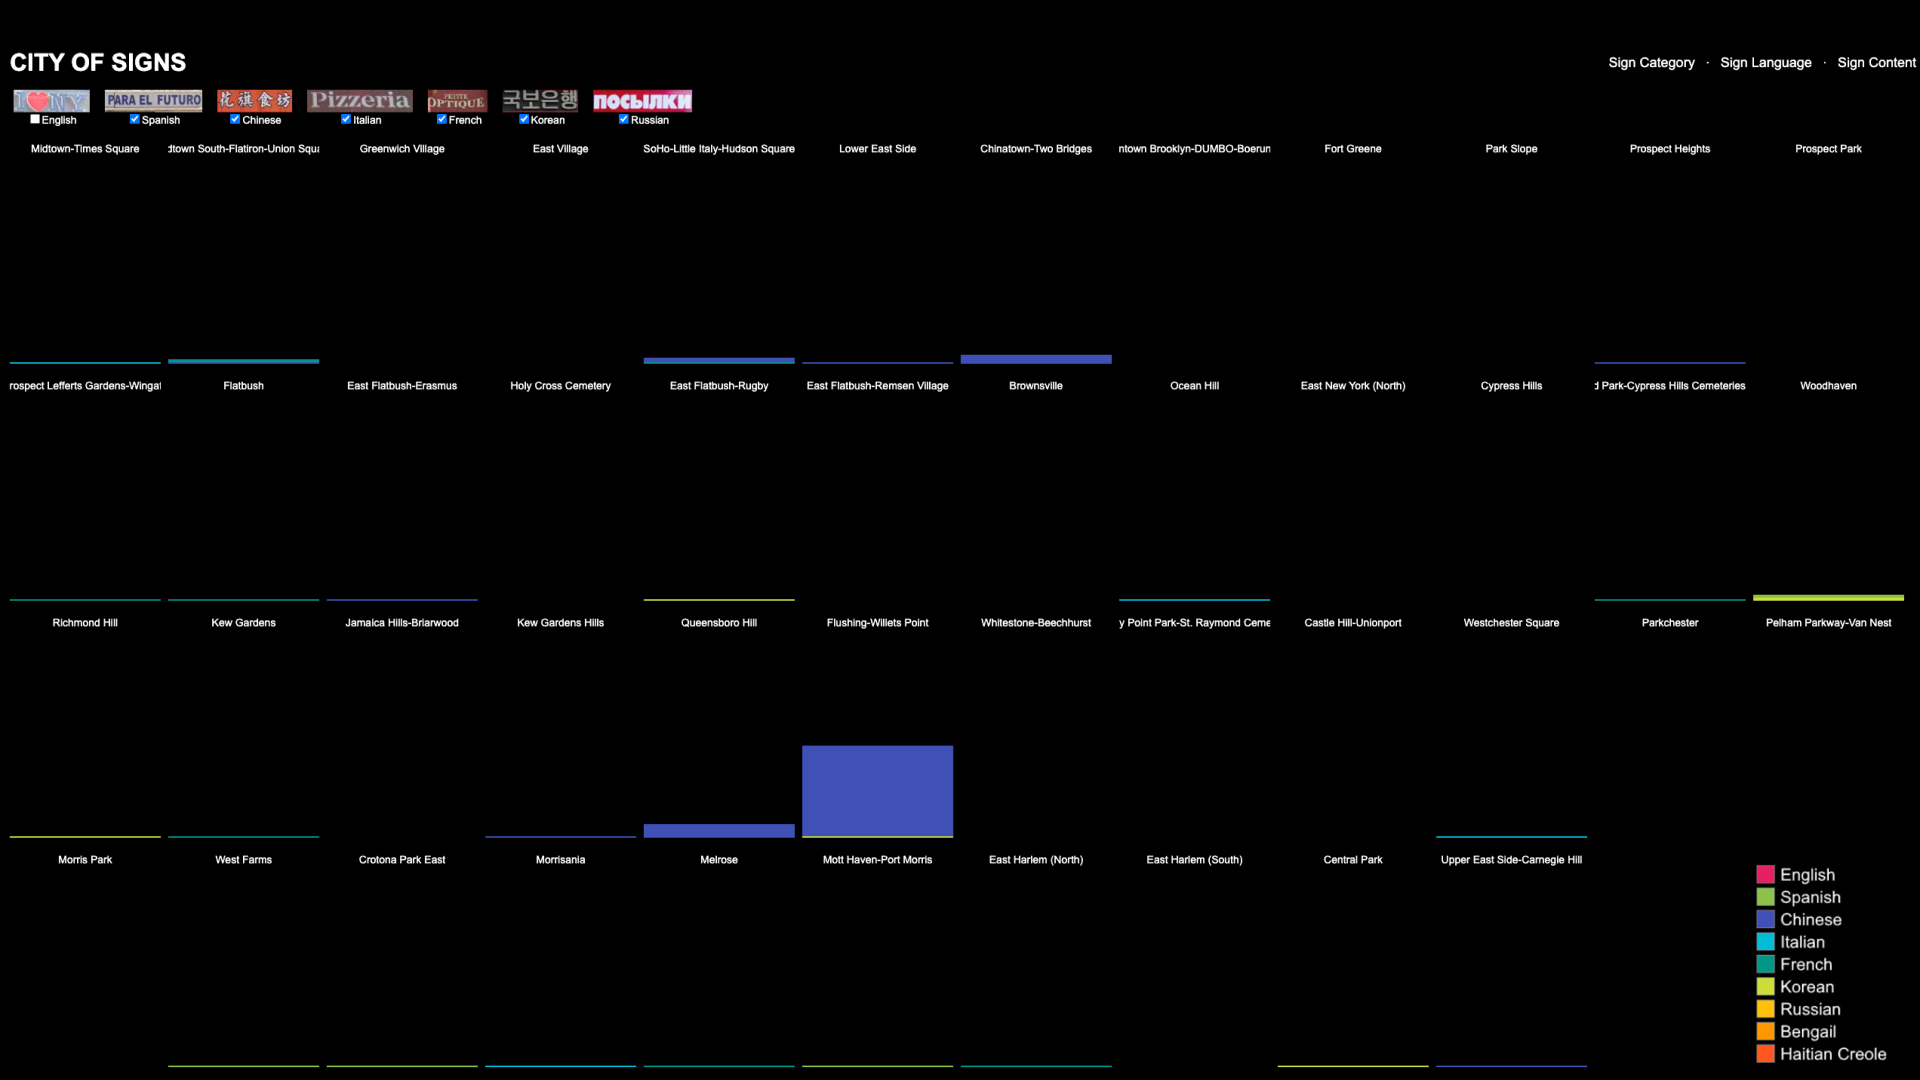
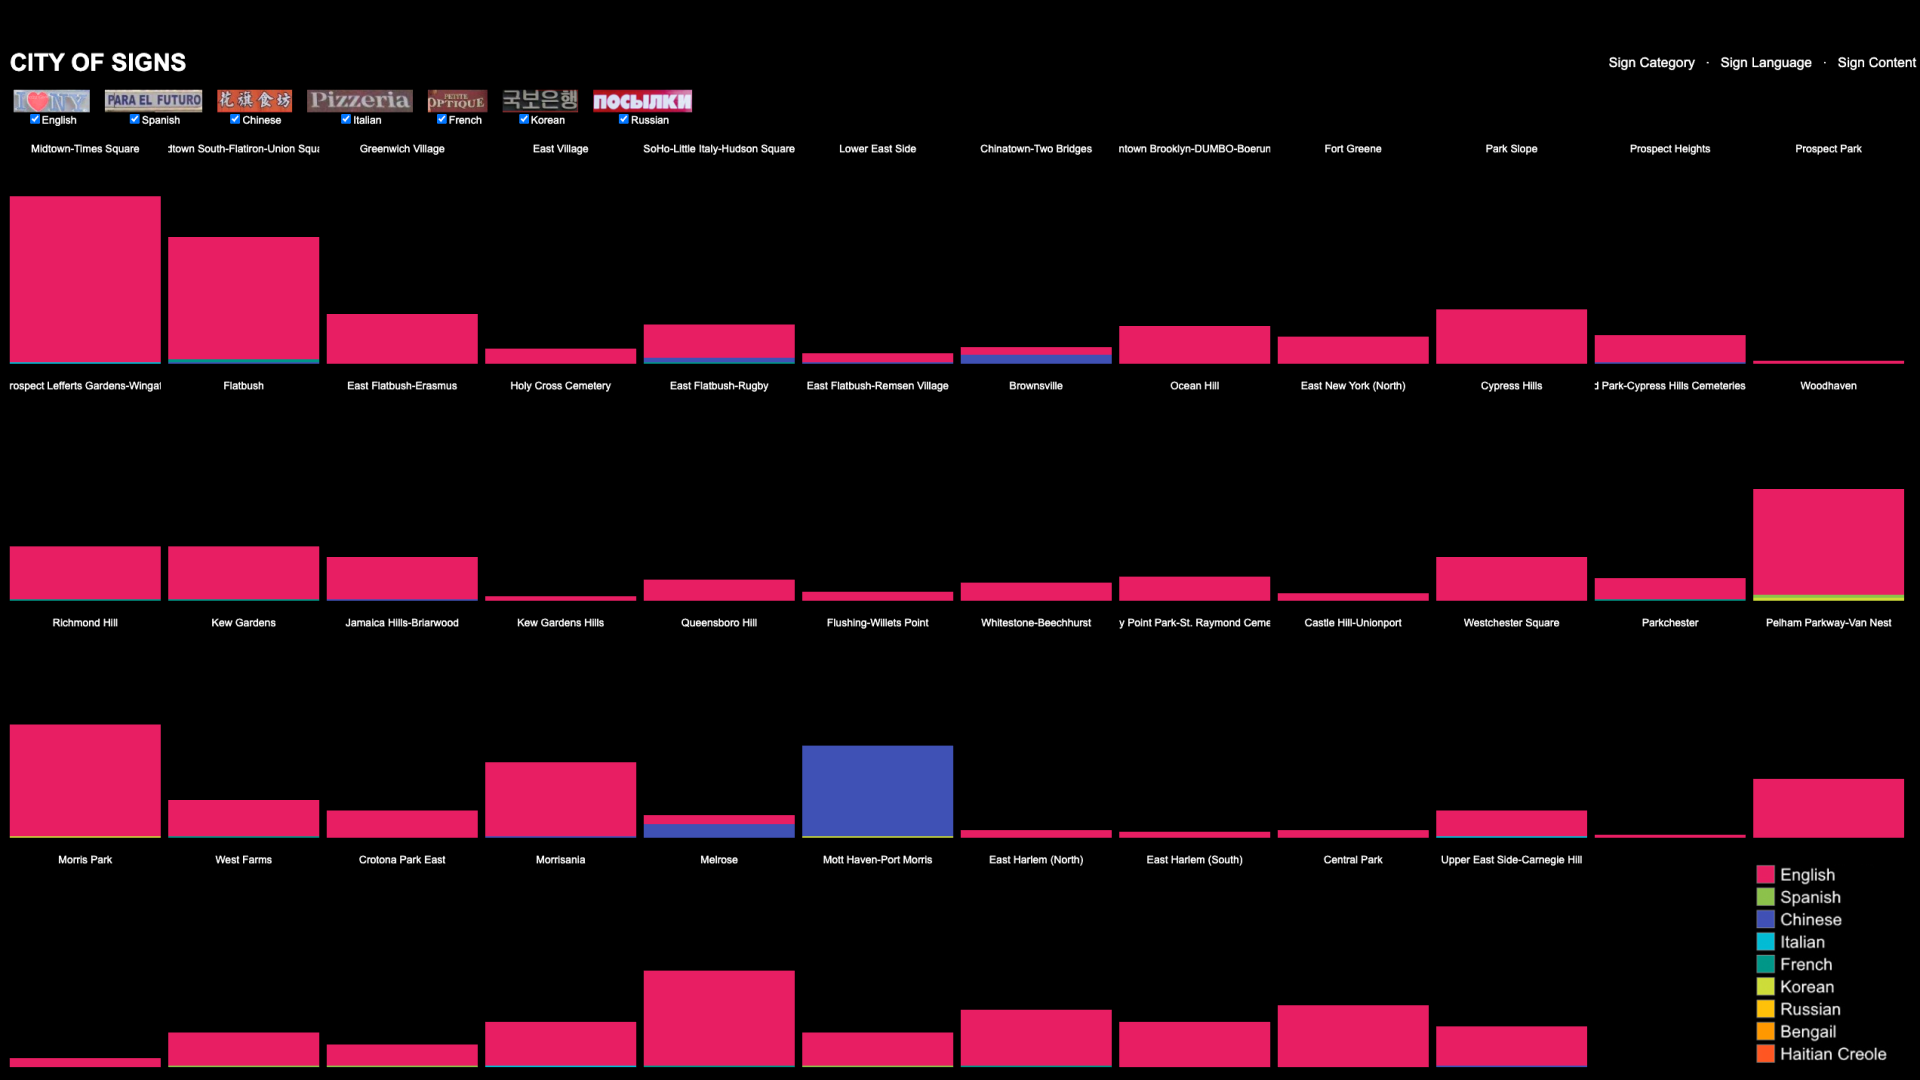
refine the text

diff --git a/index.html b/index.html
@@ -59,6 +59,7 @@
 
         p {
             font-size: 20px;
+            margin-bottom: 20px;
         }
 
         h2 {
@@ -112,7 +113,7 @@
 
         #playButton {
     display: block;
-    margin: 200px auto 200px auto; /* Centers the button horizontally and adds top & bottom margins */
+    margin: 160px auto 160px auto; /* Centers the button horizontally and adds top & bottom margins */
     padding: 15px 40px; /* Balanced padding for a readable button size */
     font-size: 24px; /* Reasonable font size for readability */
     color: white; /* Button text color */
@@ -225,14 +226,48 @@
             Bus stop signs, Scaffolding signs, Subway signs, etc. 7 signage languages were identified, including 6 non-English languages: 
             Spanish, Chinese, French, Italian, Korean, and Russian.
         </p>
-        <img id="scroll" src="/data/result-long.png" alt="A Scroll of NYC signs">
+        <!-- <img id="scroll" src="/data/result-long.png" alt="A Scroll of NYC signs">
+        <figcaption>Data Visualization Overview</figcaption> -->
+        <img src="/data/result.png" alt="Data Visualization Overview">
         <figcaption>Data Visualization Overview</figcaption>
         <p>
-            Signs tell us about different neighborhoods' financial, cultural, and lexical layers... In Midtown and Flushing, diverse shop 
-            signs point to vibrant local commercial hubs. Lease signs, particularly prominent in Midtown South, indicate ongoing rental 
-            activity. Sign language reflects the ethnic composition of each area, with Chinese signage prevalent in Flushing, Italian in 
-            Ocean Hill, and Spanish in Woodhaven, which notably also features a significant number of Korean signs. Sign content reveals 
-            varied local lexicons, with phrases like "best" commonly seen in Flatbush and Brownsville, and "lucky" prevalent in Chinatown...
+            This analysis provides an overview of the distribution of different signage types across communities and their relationship to demographic factors such as household income, race, and ethnicity. Areas like Midtown, Chinatown, Richmond Hill, and Flushing exhibit greater diversity in signage types and languages, while neighborhoods such as Prospect Park show less diversity, predominantly featuring English shop signs.
+        </p>
+        <p>
+            Higher-income neighborhoods like Prospect Heights and the Upper East Side tend to have fewer non-English signs, reflecting a more uniform linguistic landscape. In contrast, lower-income areas such as Flatbush and Brownsville display fewer shop signs overall, which are also predominantly in English, with limited representation of non-English languages.
+        </p>
+        <p>
+            Neighborhoods with predominantly White populations tend to have a wide variety of signage, mostly in English but with occasional Italian influences. Black neighborhoods generally feature fewer signs, with English as the dominant language. Meanwhile, Asian neighborhoods stand out with a diverse range of signage, primarily in Chinese, reflecting the cultural and linguistic makeup of these communities.
+        </p>
+        <img src="/data/type.png" alt="Signage Type in Community">
+        <figcaption>Signage Type in Community</figcaption>
+        <p>
+            To better understand what signage reveals about these neighborhoods, this analysis examines the number and types of signs across 46 neighborhoods. Shop signage, represented in red, indicates levels of commercial activity. Neighborhoods like Midtown and Flushing stand out with a high density of shop signage, highlighting their status as vibrant commercial hubs.
+        </p>
+        <p>
+            Examining temporary signage—such as “For Lease” and discount signs—provides insights into the transient and informal layers of these neighborhoods, offering information that may not be readily accessible through traditional sources like Google Maps. For example, Midtown South currently shows a high volume of “For Lease” signs, suggesting significant rental turnover or vacant spaces.
+        </p>
+        <p>
+            By analyzing regulatory signage containing negative phrases like “Do Not,” we can infer the “positivity” or regulatory tone of a neighborhood. For instance, Richmond Hill has a notable concentration of “Do Not” signs, indicating a stricter regulatory environment or specific community challenges.
+        </p>
+        <img src="/data/language.png" alt="Signage Language in Community">
+        <figcaption>Signage Language in Community</figcaption>
+        <p>
+            By filtering out English signage, we can reveal the rich ethnic diversity within each neighborhood. For instance, Flushing and Ocean Hill prominently feature Chinese and Italian signage, respectively, reflecting the cultural identities of their communities. However, there are intriguing exceptions, such as Woodhaven, a predominantly Spanish-speaking neighborhood that also exhibits a significant presence of Korean signage, highlighting unique cultural overlaps.
+        </p>
+        <img src="/data/text.png" alt="Signage Content in Community">
+        <figcaption>Signage Content in Community</figcaption>
+        <p>
+            Analyzing the content of signs and highlighting the most frequently used words in each neighborhood provides valuable insights into the local lexicon. For instance, the word “home” is prevalent in East Flatbush, while “great” is common in Midtown South, and “fresh” appears frequently in Kew Gardens.
+        </p>
+        <p>
+            Furthermore, by focusing on specific words, we can uncover how communities perceive themselves or wish to be perceived. For example, Flatbush and Brownsville, both less affluent neighborhoods, prominently feature the word “best,” perhaps reflecting efforts to uplift their image and counter negative narratives. Meanwhile, Flushing stands out as the “most lucky” community, a nod to cultural traditions in Chinese communities where concepts of luck and prosperity hold significant importance.
+        </p>
+        <p>
+            The use of words like “international” and “American” also sheds light on cultural dynamics. For example, the word “international” frequently appears in signage in Chinatown and Flushing. Interestingly, these signs often include Chinese text, such as the furniture company name “荣发” (“flourishing” or “prosperous”), which is simplified to “international” in English to aid comprehension for non-Chinese speakers.
+        </p>
+        <p>
+            Signage also reflects the economic and commercial landscape of neighborhoods. Flatbush and East Harlem are the “most discount” communities, indicating a prevalence of promotional signage. In contrast, Union Square is marked by “luxury” signs, highlighting its high-end commercial identity. Additionally, neighborhoods like Woodhaven and Richmond Hill show a high occurrence of “opening” signs, suggesting active growth and new opportunities, while Midtown East and East Flatbush feature a significant number of “closing” signs, signaling transitions or economic challenges.
         </p>
     </section>
     <button id="playButton" onclick="location.href='application.html'">PLAY THE APPLICATION</button>
